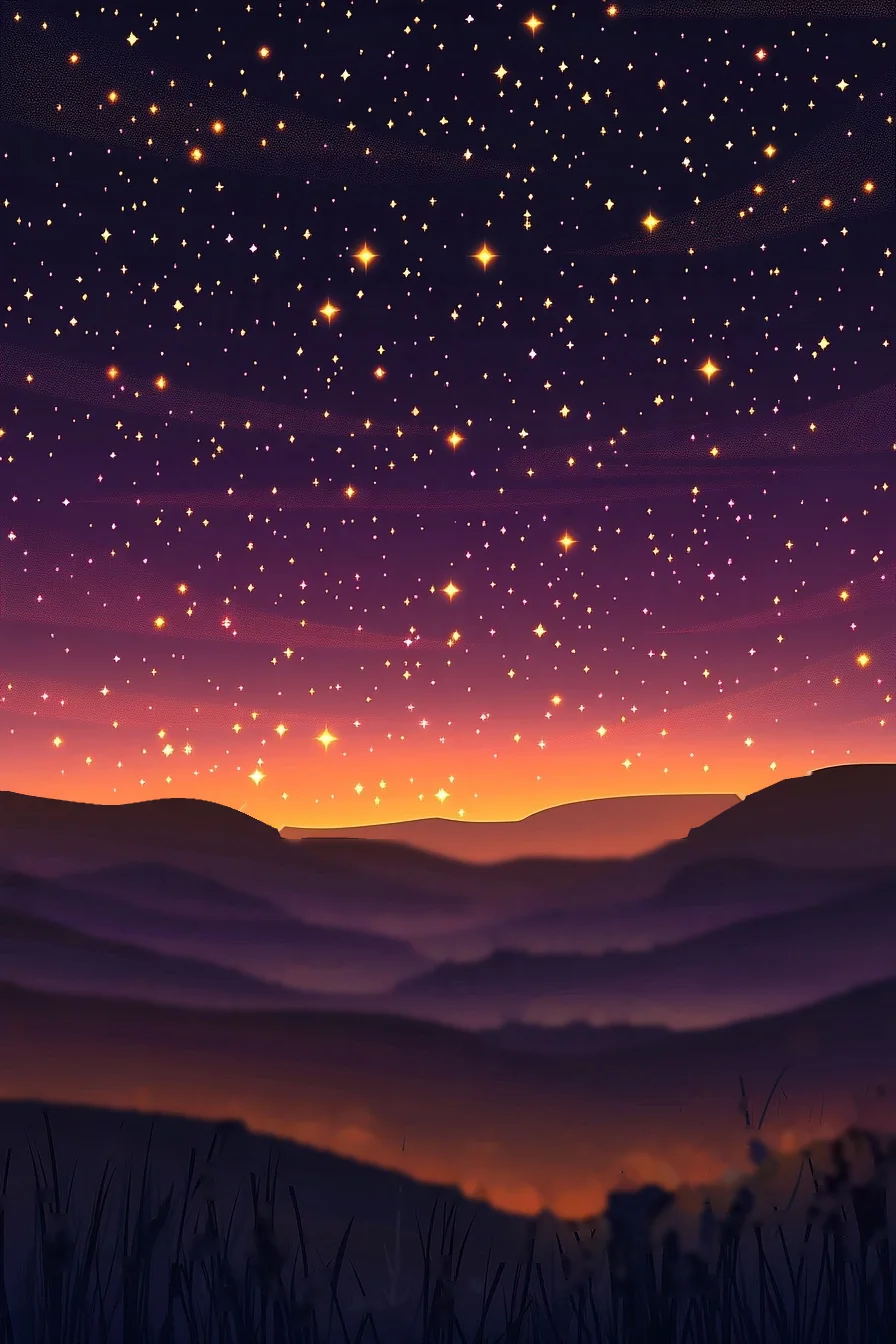
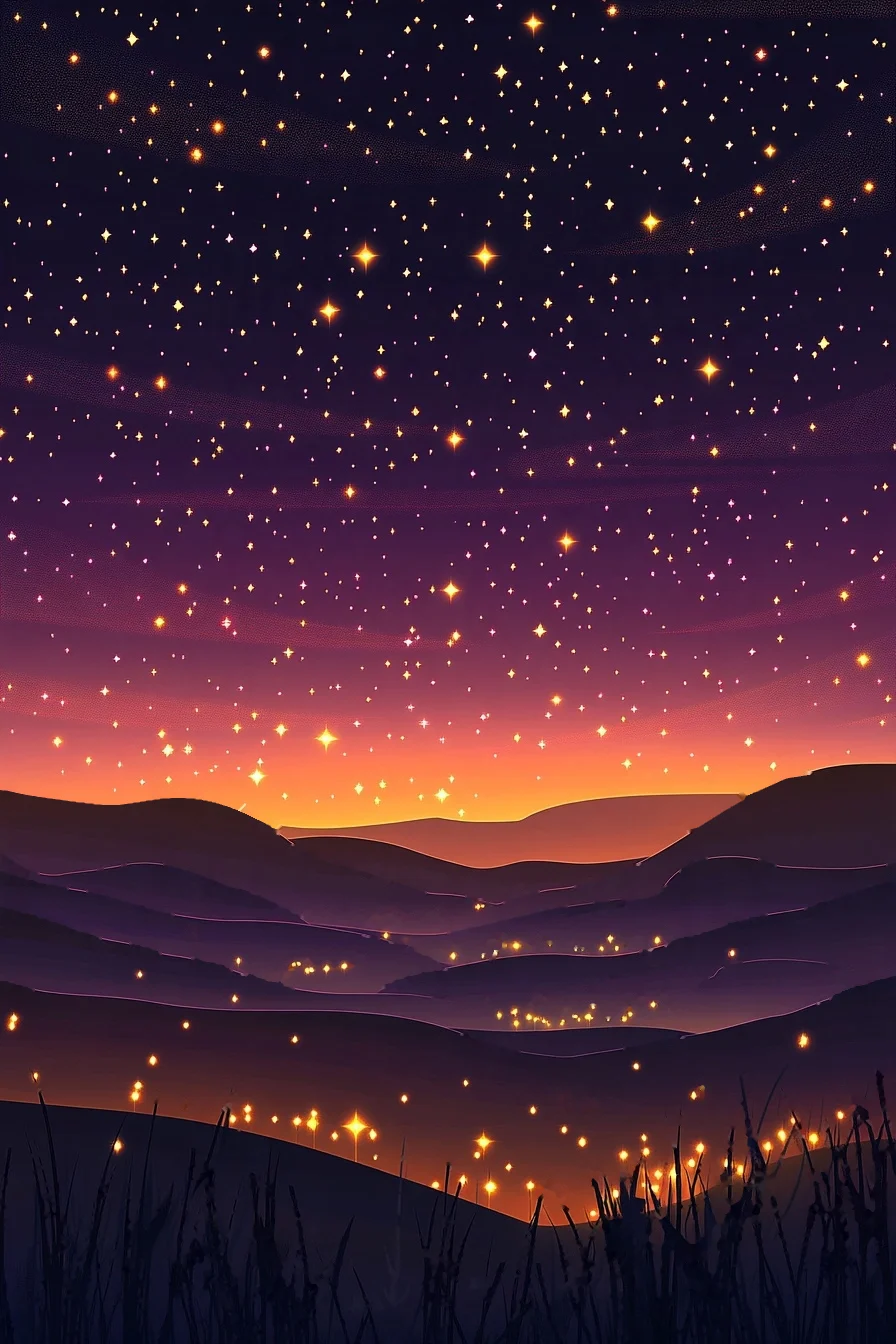
open-sky round 3: born-unlit MJ frame replaces the surgical A1 (crisp dark ground), shooting stars hard-clamped above the ridge, twinkle deeper+quicker, unlit-roll alternates d1-d4

diff --git a/index.html b/index.html
@@ -196,6 +196,10 @@
     <code>anchor/sref (all six): cdn.midjourney.com/7ad41d09-9759-4ade-a9d1-fcf641eb8983/0_1.webp · --s 100 --style raw --v 6.1</code>
     <code>sky A · 91fb5fcb-974c-4491-975e-ede0baa6c2e3 — "flat vector illustration, a vast open twilight night sky with tiny glowing stars scattered across it, layered indigo violet plum rose gradient dusk, silhouetted meadow hills and fireflies below, clean simple shapes, dreamy storybook night --no animals, creatures, constellation figures, moon, text --ar 2:3"</code>
     <code>sky B · 607708d7-ab8b-499a-8418-c5c654c5b528 — same, with "a faint band of drifting stardust"</code>
+    <code>sky UNLIT ROLL · ab88edc7-431b-442c-b725-3fd33a4c122c — same formula with "dark unlit silhouetted meadow
+    hills below" and "--no … fireflies, lanterns, village lights, lights on the ground" (fired after the 9/13 blur
+    verdict: cutting lights out of A1 in post kept softening the paint; frame 2 = the hero; frame 1 kept its village
+    lights anyway — flagged; frame 3 grew a constellation-like cluster — flagged)</code>
     <code>common · 5adf7eb9-bf58-448d-8b3d-a3c8737c4e76 — "an ornate rectangular game plaque frame carved from warm brown wood and bronze, plain dark empty center panel, a small star emblem at the top of the frame, on a twilight indigo background … --no text, letters, words, runes --ar 2:1"</code>
     <code>rare · REROLL c3007204-28c7-45a8-b41a-84ba27afcb85 — "… deep sapphire cobalt blue glowing crystal, gentle icy blue glow … --no text, letters, words, runes, orange, pink, gold". The first roll (da1d3a12-5af0-44b3-bcb4-b4f0fac8c929, "glowing sapphire blue crystal") drifted off-blue toward lavender/gold under the warm sref — its four frames are kept in the alternates, flagged.</code>
     <code>epic · 99adf29a-f46f-41e7-87bc-229b51242d4b — "… glowing amethyst purple crystal with wisps of violet starlight …"</code>
@@ -212,37 +216,47 @@
   <div class="quote"><span class="who">SKYLAR (SKYLAR'S CONSOLE), 2026-09-13 LATE —</span>
   "I like the live version and we should use that. But all the lights on the ground should be removed and there
   should be more shooting stars in the sky and more twinkling stars in the sky. All of the lights should be removed
-  below the redline … Show me what a live version of that would look like before we send it to the live game."</div>
+  below the redline … Show me what a live version of that would look like before we send it to the live game."
+  <span class="who" style="margin-top:10px">AND AFTER THE FIRST LOOK —</span>
+  "sometimes the shooting stars come across the ground. The shooting stars should never pass over the ground. The
+  stars in the sky should twinkle more. Also, why is the ground very blurry now. Fix that and let me look at it
+  before I decide to send it to live or not."</div>
   <div class="stage">
     <div class="cardwrap">
       <div class="livecard" id="livecard">
-        <img src="art/sky_hero2.webp" alt="the open sky — frame A1, ground lights removed below the ridge">
+        <img src="art/sky_hero3.webp" alt="the open sky — born-unlit frame, dark crisp ground, no lights">
         <div class="skylayer" id="skylayer"></div>
         <div class="cardlabel"><div class="nm">THE OPEN SKY</div><div class="un">EVERY STAR AT ONCE</div></div>
       </div>
-      <div class="cap">HIS SPEC, LIVE — GROUND DARK BELOW THE RED LINE · TWINKLE FIELD ×2 · CROSSINGS ~2× AS OFTEN</div>
+      <div class="cap">GROUND DARK &amp; CRISP · DEEPER TWINKLE · CROSSINGS NEVER TOUCH THE GROUND</div>
       <div class="toggles">
         <button class="tg on" id="tgAlive" onclick="setAlive(true)">ALIVE</button>
         <button class="tg" id="tgStill" onclick="setAlive(false)">STILL</button>
       </div>
     </div>
     <div class="herotext">
-      <p><b>What changed for this version.</b> Sky A frame 1, as picked — with every light below the red line cut out
-      of the art itself: village lights, grass fireflies, the lit edge-strokes on the hills (they read as ground
-      lights too once the dots were gone). Each was masked by local contrast and inpainted from the surrounding hill
-      colors, never a flat fill, so the ground now recedes into a quiet dusk and the sky owns all the light. The
-      living layer doubled to match: <b>44 twinkle dots + 6 slow-spinning heroes</b> (v0.84.0 ships 22 + 3), kept to
-      the sky band above the ridge, and a shooting star roughly <b>every 3.5–7s</b> (first one inside 5s) instead of
-      8–15s — still right-and-down, still bright most of its crossing.</p>
-      <p><b>Before it touches the game:</b> this page is the preview you asked for. On your go, the build card
-      carries exactly these dials — the darkened 512×768 cut of this frame as the unsigned card's plate, and the
-      v0.84.0 layer's field/cadence numbers raised to the ones running here. Nothing ships until you say so.</p>
-      <p style="font-size:12.5px"><a href="art/sky_hero2.webp" target="_blank" rel="noopener">open the darkened frame ↗</a>
-      · <a href="art/sky_hero.webp" target="_blank" rel="noopener">the original for comparison ↗</a></p>
+      <p><b>Why the ground is crisp now.</b> The blur was the cost of surgery: frame A1's ground is woven from light
+      — lamp chains sit ON the hills' contour lines, fireflies hide IN the grass — so cutting the lights out in post
+      kept smearing the paint no matter how carefully the holes were filled. The honest fix was to go back to
+      Midjourney: <b>same frozen formula, same anchor, with the ground born unlit</b> (--no fireflies, lanterns,
+      village lights). This frame IS that roll — dark layered hills, crisp edges, zero surgery. Its three siblings
+      are below; A1-original and A1-surgical stay linked for comparison.</p>
+      <p><b>The sky, per your notes:</b> the stars twinkle <b>deeper and quicker</b> now (most dots breathe from
+      bright to near-gone, on 0.9–2.2s cycles); still 44 dots + 6 heroes. And a shooting star's flight is now
+      <b>clamped above the ridge</b> — the whole crossing, head and trail, ends before the ground line, every time.
+      Cadence stays ~3.5–7s with the first inside 5s.</p>
+      <p><b>Before it touches the game:</b> on your SEND, the build card carries the 512×768 cut of this frame plus
+      exactly these living-layer dials (field, cadence, twinkle depth, above-the-ridge clamp). Nothing ships until
+      you say so.</p>
+      <p style="font-size:12.5px"><a href="art/sky_hero3.webp" target="_blank" rel="noopener">open this frame ↗</a>
+      · <a href="art/sky_hero.webp" target="_blank" rel="noopener">A1 original ↗</a>
+      · <a href="art/sky_hero2.webp" target="_blank" rel="noopener">A1 surgical (the blurry one) ↗</a></p>
     </div>
   </div>
 
-  <h3>THE SKY PICK — RESOLVED 9/13 LATE (frame A1, live, ground dark; the 8 frames stand as the record)</h3>
+  <h3>THE UNLIT ROLL — 4 FRAMES BORN WITHOUT GROUND LIGHTS (chip = your pick; frame 2 is the mock above)</h3>
+  <div class="altrow" id="darkalts"></div>
+  <h3>THE FIRST ROLL — RESOLVED TO A1 9/13 LATE, THEN SUPERSEDED BY THE UNLIT ROLL (kept as the record)</h3>
   <div class="altrow" id="skyalts"></div>
 
   <h2>II · THE SIGIL ROWS</h2>
@@ -449,6 +463,19 @@ SKY.forEach(function(s){
 });
 document.getElementById('skyalts').innerHTML=html;
 
+var DARK=[
+ {id:'d1',f:'sky_dark0_t',cap:'UNLIT · FRAME 1',flag:'kept its village lights anyway'},
+ {id:'d2',f:'sky_dark1_t',cap:'UNLIT · FRAME 2 — the mock above',flag:''},
+ {id:'d3',f:'sky_dark2_t',cap:'UNLIT · FRAME 3',flag:'grew a constellation-like cluster — fights the real asterisms'},
+ {id:'d4',f:'sky_dark3_t',cap:'UNLIT · FRAME 4',flag:''}];
+html='';
+DARK.forEach(function(s){
+  html+='<div class="alt"><img loading="lazy" src="art/'+s.f+'.webp" alt="">'
+      +(s.flag?'<div class="flag">⚠ '+s.flag+'</div>':'')
+      +'<button class="chip" data-g="sky" data-v="'+s.id+'">'+s.cap.split(' — ')[0]+'</button></div>';
+});
+document.getElementById('darkalts').innerHTML=html;
+
 var RAR=[['common','COMMON'],['rare','RARE'],['epic','EPIC'],['legendary','LEGENDARY']];
 html='';
 RAR.forEach(function(r){
@@ -481,7 +508,7 @@ document.addEventListener('click',function(e){
   state[g]=(state[g]===v?null:v); save(); paint();
 });
 /* defaults: the mock's picks, first visit only */
-if(!('sky' in state)){state.sky='a1';state.common='2';state.rare='4';state.epic='2';state.legendary='4';save();}
+if(!('sky' in state)){state.sky='d2';state.common='2';state.rare='4';state.epic='2';state.legendary='4';save();}
 paint();
 var nb=document.getElementById('noteBox');
 nb.value=state.note||'';
@@ -517,10 +544,10 @@ for(i=0;i<44;i++){
   var sz=(1.6+rnd()*3.2).toFixed(1);
   el.style.width=sz+'px';el.style.height=sz+'px';
   el.style.left=(3+rnd()*94).toFixed(1)+'%';el.style.top=(2+rnd()*52).toFixed(1)+'%';
-  var a=(.3+rnd()*.5);
+  var a=(.45+rnd()*.5);
   el.style.setProperty('--a',a.toFixed(2));
-  el.style.setProperty('--d',Math.max(.08,a-.35-rnd()*.2).toFixed(2));
-  el.style.setProperty('--du',(1.8+rnd()*2.6).toFixed(2)+'s');
+  el.style.setProperty('--d',Math.max(.04,a-.55-rnd()*.3).toFixed(2));
+  el.style.setProperty('--du',(0.9+rnd()*1.3).toFixed(2)+'s');
   el.style.setProperty('--de',(-rnd()*4).toFixed(2)+'s');
   layer.appendChild(el);
 }
@@ -537,9 +564,10 @@ function shoot(){
   if(!alive) return;
   var card=document.getElementById('livecard');
   var W=card.clientWidth,H=card.clientHeight;
-  var x0=W*(0.02+Math.random()*0.45),y0=H*(0.04+Math.random()*0.4);
-  var ang=(26+Math.random()*16)*Math.PI/180;
-  var dist=W*(0.55+Math.random()*0.35);
+  var x0=W*(0.02+Math.random()*0.45),y0=H*(0.03+Math.random()*0.30);
+  var ang=(24+Math.random()*14)*Math.PI/180;
+  var dist=W*(0.5+Math.random()*0.35);
+  dist=Math.min(dist,(H*0.56-y0)/Math.sin(ang));   /* the whole flight ends above the ground line */
   var dx=Math.cos(ang)*dist,dy=Math.sin(ang)*dist;
   var s=document.createElement('div');s.className='shoot';
   s.style.transform='translate('+x0+'px,'+y0+'px) rotate('+(ang*180/Math.PI)+'deg)';
